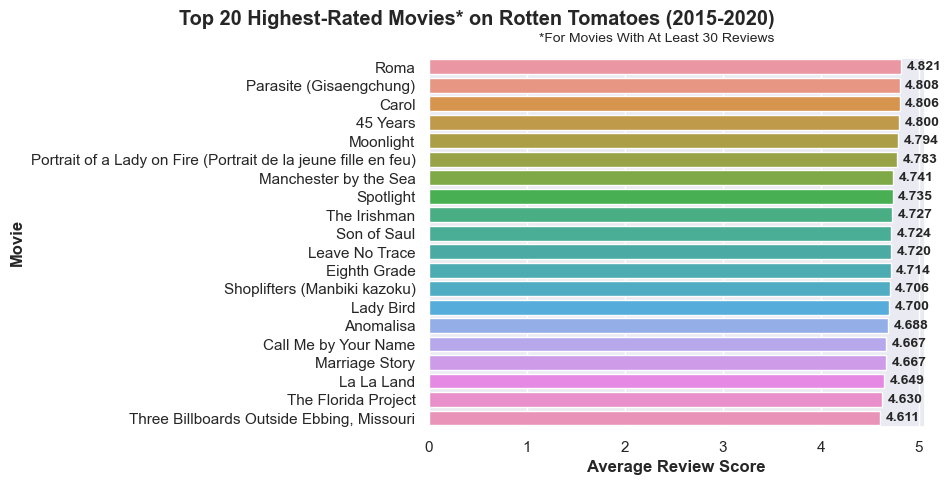
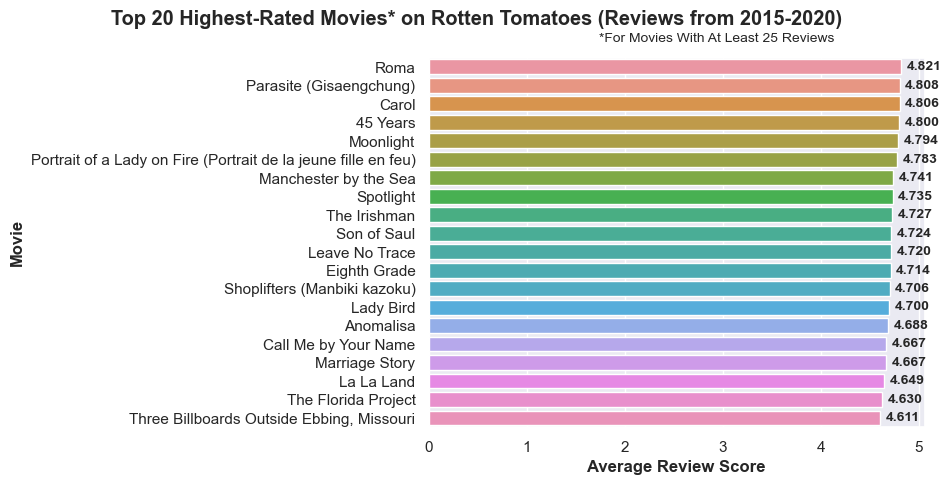
fix bar chart titles and subtitles

Changed region(s): [[0.122, 0.0, 0.8843, 0.0928]]

diff --git a/main.py b/main.py
@@ -93,10 +93,10 @@ def plot_top_20_movies(movie_reviews: pd.DataFrame) -> None:
                           fontsize=10, fontweight='bold', padding=4)
 
     # title and axes labels
-    plt.suptitle('Top 20 Highest-Rated Movies* on Rotten Tomatoes (2015-2020)',
+    plt.suptitle('Top 20 Highest-Rated Movies* on Rotten Tomatoes (Reviews from 2015-2020)',
                  fontsize='large', fontweight='bold', x=0.2)
-    plt.title('*For Movies With At Least 30 Reviews',
-              fontsize='small', x=0.46, y=1.02)
+    plt.title('*For Movies With At Least 25 Reviews',
+              fontsize='small', x=0.58, y=1.02)
     plt.xlabel("Average Review Score", fontweight='bold')
     plt.ylabel("Movie", fontweight='bold')
 
@@ -122,10 +122,10 @@ def plot_bottom_20_movies(movie_reviews: pd.DataFrame) -> None:
                              fontsize=10, fontweight='bold', padding=4)
 
     # title and axes labels
-    plt.suptitle('Top 20 Lowest-Rated Movies* on Rotten Tomatoes (2015-2020)',
+    plt.suptitle('Top 20 Lowest-Rated Movies* on Rotten Tomatoes (Reviews from 2015-2020)',
                  fontsize='large', fontweight='bold', x=0.35)
-    plt.title('*For Movies With At Least 30 Reviews',
-              fontsize='small', x=0.65, y=1.02)
+    plt.title('*For Movies With At Least 25 Reviews',
+              fontsize='small', x=0.78, y=1.02)
     plt.xlabel("Average Review Score", fontweight='bold')
     plt.ylabel("Movie", fontweight='bold')
     plt.xticks(range(6))
